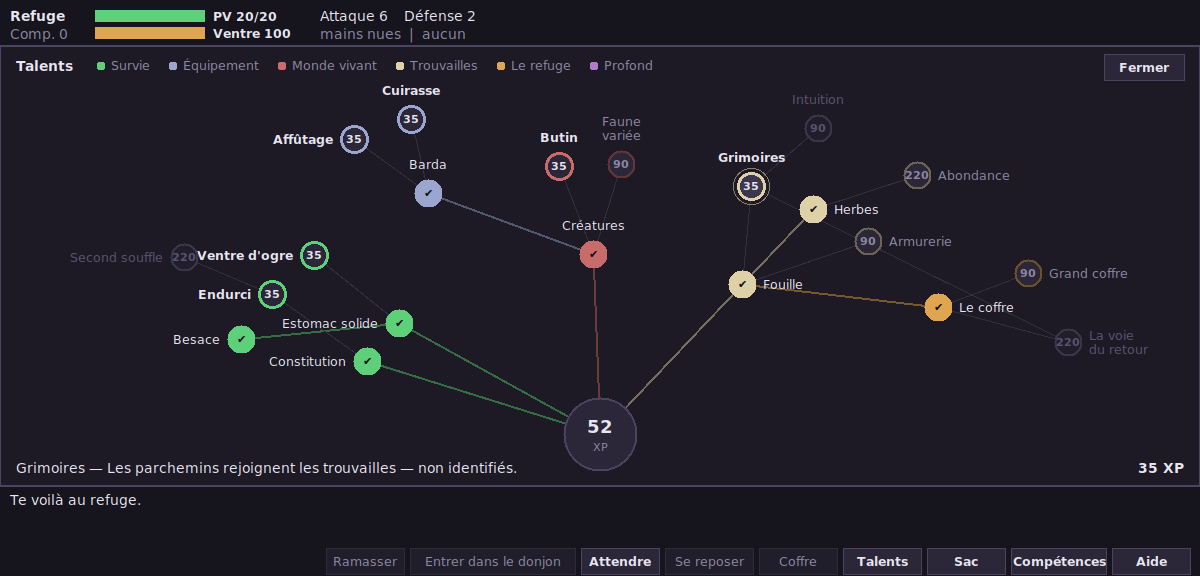
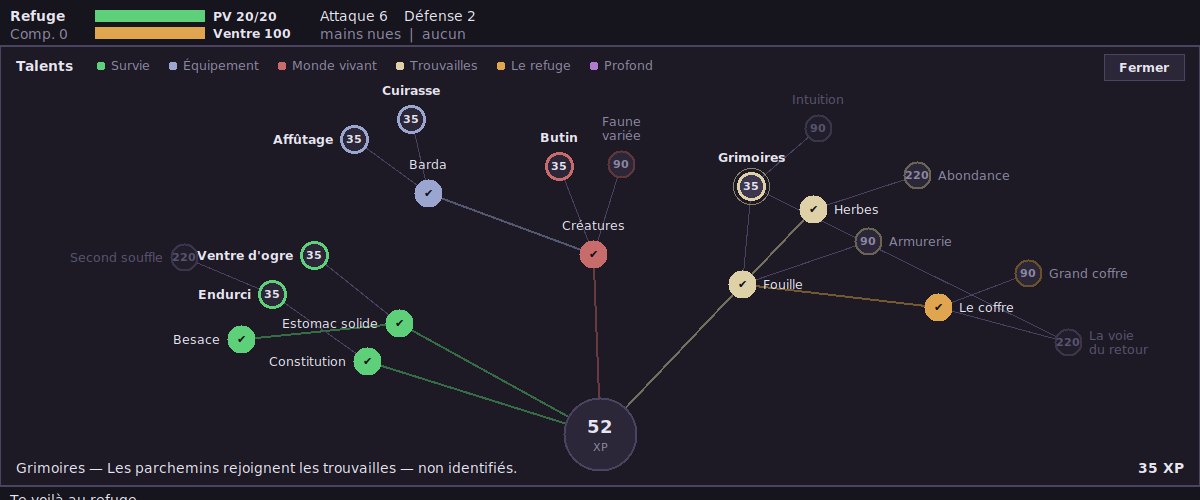
Laisse le trait dire le prérequis
Le survol répétait en mots (« exige : Endurci ») ce que le trait montre
déjà, le nœud parent disant lui-même par son état s'il est acquis. Texte
retiré ; en échange le trait, qui porte désormais seul le message, passe
de #332e42 à #494263 — il se lisait à peine sur le fond du panneau.

Claude-Session: https://claude.ai/code/session_018UFaHGxRzxn1yYEEvUBBBk

diff --git a/tests/test_gui.py b/tests/test_gui.py
@@ -199,50 +199,6 @@ class TestRefuge(unittest.TestCase):
         self.assertNotIn("second_souffle", fenetre.session.meta.noeuds)
         self.assertEqual(fenetre.session.meta.xp, 10000)
 
-    def test_le_survol_dit_ce_qui_manque(self):
-        from donjon import tree
-        from donjon.gui import Fenetre
-        fenetre = Fenetre(seed=7, sauvegarde=False)
-        self.addCleanup(fenetre.root.destroy)
-        fenetre.mode = "talents"
-        fenetre.dessiner()
-        manque = fenetre._prerequis_manquants(tree.ARBRE["second_souffle"])
-        self.assertIn(tree.ARBRE["endurci"].name, manque)
-        self.assertEqual(fenetre._prerequis_manquants(tree.ARBRE["estomac"]), "")
-
-    def test_l_eventail_place_tous_les_noeuds_dans_le_cadre(self):
-        """Un nœud d'une branche oubliée dans `BRANCHES` disparaîtrait sans bruit."""
-        from donjon import tree
-        from donjon.gui import HUD_HEIGHT
-
-        fenetre = self.fenetre
-        fenetre.mode = "talents"
-        fenetre.dessiner()
-        places = fenetre._disposition_talents()
-        self.assertEqual(len(places), len(tree.ARBRE))
-        bas = HUD_HEIGHT + fenetre.hauteur_carte
-        for cle, (x, y, _angle, _place) in places.items():
-            # la marge laisse la place au nom, posé à côté du rond
-            self.assertTrue(40 <= x <= fenetre.largeur - 40, f"{cle} en x={x}")
-            self.assertTrue(HUD_HEIGHT + 40 <= y <= bas - 40, f"{cle} en y={y}")
-
-    def test_les_ronds_de_l_eventail_ne_se_touchent_pas(self):
-        """Deux talents collés seraient impossibles à distinguer et à cliquer."""
-        import math
-
-        from donjon.gui import RAYON_TALENT
-
-        fenetre = self.fenetre
-        fenetre.mode = "talents"
-        fenetre.dessiner()
-        places = fenetre._disposition_talents()
-        for premier, un in places.items():
-            for second, autre in places.items():
-                if premier < second:
-                    ecart = math.dist(un[:2], autre[:2])
-                    self.assertGreater(ecart, 2 * RAYON_TALENT + 6,
-                                       f"{premier} / {second}")
-
     def test_la_carte_du_refuge_est_centree(self):
         fenetre = self.fenetre
         fenetre.dessiner()

diff --git a/donjon/gui.py b/donjon/gui.py
@@ -70,6 +70,8 @@ TALENT_OUVERTURE = (10, 170)
 #: qu'une branche réclame, donc de la part d'éventail qu'elle reçoit.
 TALENT_ESPACEMENT = 82
 RAYON_TALENT = 13
+#: Trait entre un nœud et son prérequis, tant que le nœud n'est pas acquis.
+LIEN = "#494263"
 COULEUR_BRANCHE = {
     "Survie": "#5fd07a",
     "Équipement": "#9aa6d0",
@@ -1058,9 +1060,7 @@ class Fenetre:
             self._noeud_de_talent(tree_mod.ARBRE[cle], place)
         survole = self._talent_survole()
         if survole:
-            self._texte(16, bas - 26,
-                        f"{survole.name} — {survole.description}"
-                        f"{self._prerequis_manquants(survole)}")
+            self._texte(16, bas - 26, f"{survole.name} — {survole.description}")
             self._texte(self.largeur - 16, bas - 26, f"{survole.cost} XP",
                         ancre="ne", gras=True)
         else:
@@ -1118,9 +1118,10 @@ class Fenetre:
             attaches = [places[parent][:2] for parent in noeud.parents
                         if parent in places] or [(cx, cy)]
             for (px, py) in attaches:
+                # Le trait porte seul le prérequis : il doit se lire.
                 self.canvas.create_line(
                     px, py, x, y, width=2 if acquis else 1,
-                    fill=melange(teinte, FOND, 0.5) if acquis else "#332e42")
+                    fill=melange(teinte, FOND, 0.5) if acquis else LIEN)
 
     def _coeur_de_l_eventail(self, meta):
         cx, cy = self._centre_de_l_eventail()
@@ -1206,12 +1207,6 @@ class Fenetre:
             self.canvas.create_oval(x, y, x + 9, y + 9, fill=teinte, outline="")
             self._texte(x + 15, y - 3, nom, pale=True, taille=9)
             x += 15 + self.largeur_texte(nom, taille=9) + 18
-
-    def _prerequis_manquants(self, noeud):
-        """Ce qu'il faut acheter avant, dit en clair plutôt qu'en traits."""
-        manquants = [tree_mod.ARBRE[cle].name for cle in noeud.parents
-                     if not self.session.meta.acquis(cle)]
-        return f"   (exige : {', '.join(manquants)})" if manquants else ""
 
     def _talent_survole(self):
         etiquette = self.etiquette_survolee or ""
